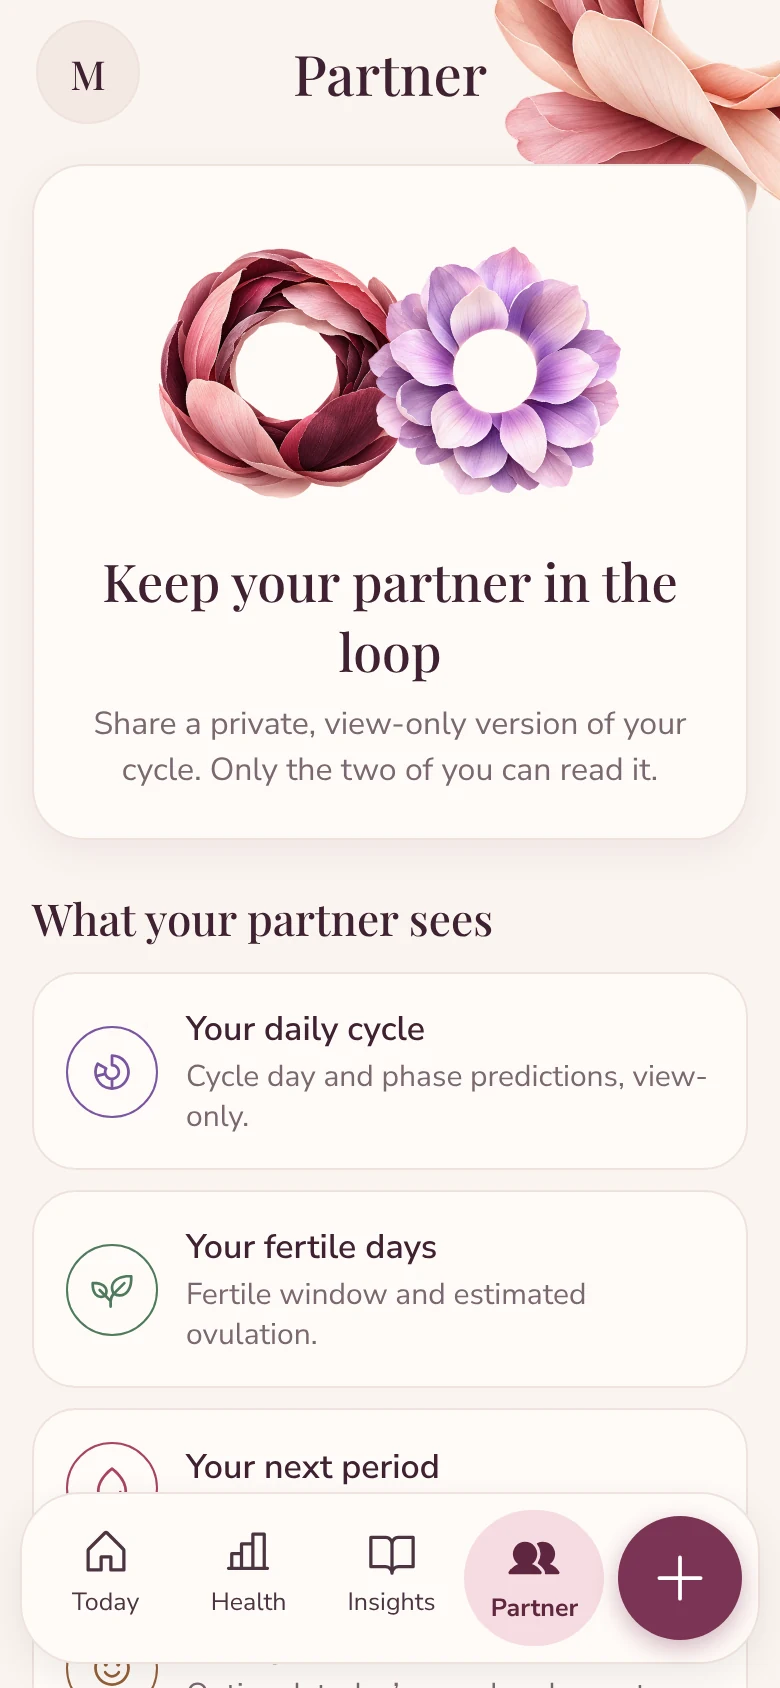
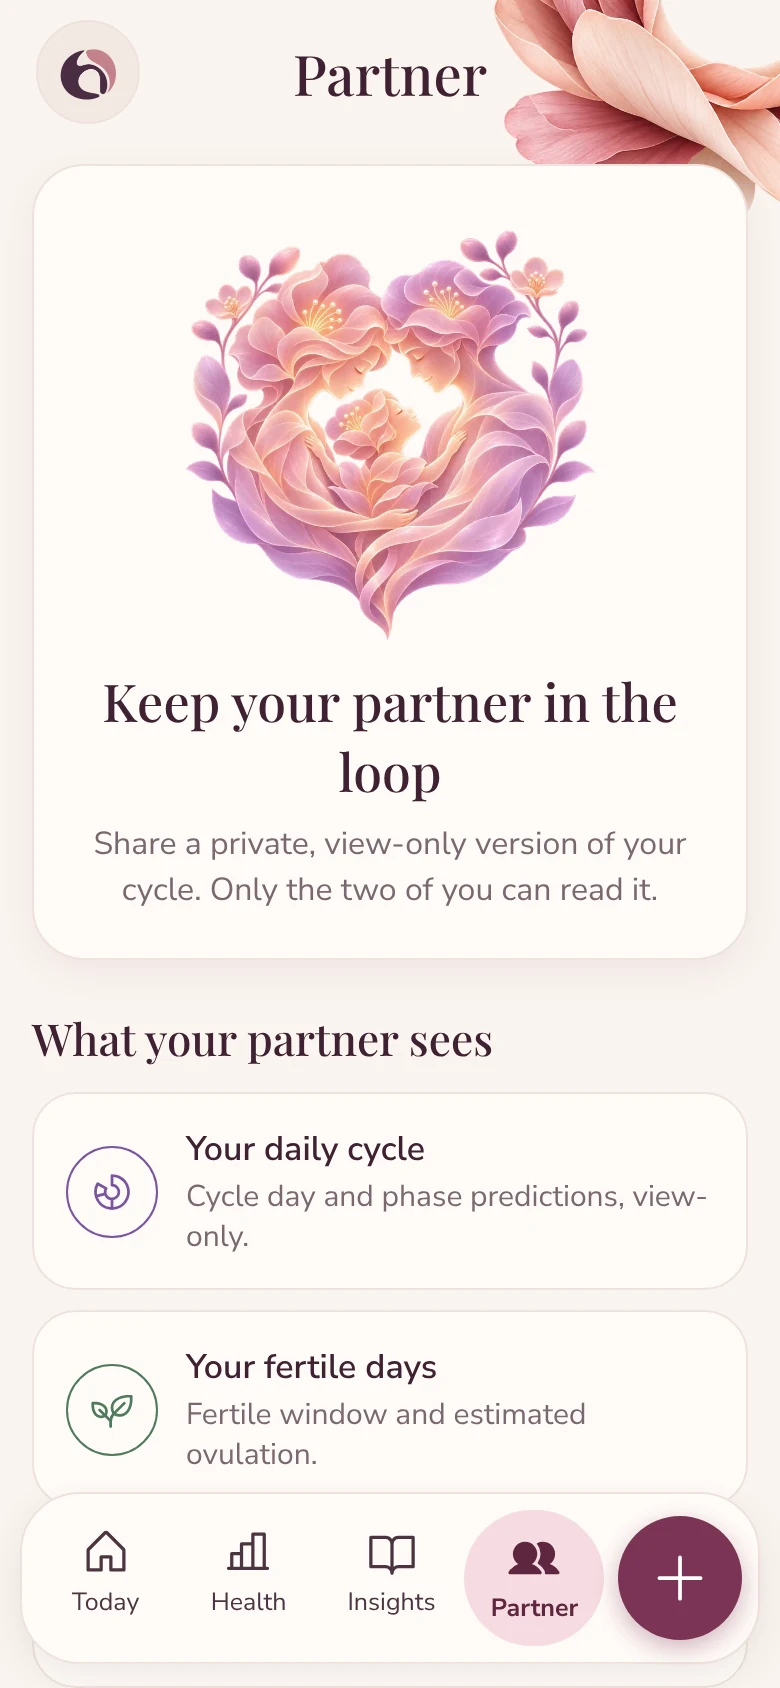
Partner page: new heart-of-petals illustration; switch donations off for now
- Partner page hero now shows the new illustration (two petal figures holding a child inside a
  heart of flowers) instead of the two flower photos, with the same gentle breathing motion and an
  accessible description. Original kept in design/partner/; the app bundles a 720px copy.
- Donations are off: the box is hidden everywhere (one switch, DONATIONS_ENABLED, in
  screens/About.tsx), and the donation lines are removed from the terms, README, CONTRIBUTING,
  FEATURES and .github/FUNDING.yml.

Claude-Session: https://claude.ai/code/session_01MSWr9YJh93DQjGqFjrqjsk

diff --git a/app/src/screens/Partner.tsx b/app/src/screens/Partner.tsx
@@ -12,7 +12,7 @@ import { BloomCircle } from '../bloom';
 import { Icon } from '../icons';
 import { useNav } from '../nav';
 import { selectLogs, selectSettings, useStore } from '../store';
-import { bloomFor, colors, flowers, shadow, themed } from '../theme';
+import { bloomFor, colors, shadow, themed } from '../theme';
 import { Btn, Card, Field, Muted, Row, Sheet } from '../ui';
 import { CalendarView } from './Calendar';
 import { QR } from '../qr';
@@ -21,15 +21,14 @@ import { QRScanner, scanSupported } from '../scan';
 import { TabHeader, centre } from './Today';
 import { CornerBloom } from './Insights';
 
-/** Two blooms leaning together, gently breathing. */
+/** Two figures and a child held together inside a heart of petals, gently breathing. */
 function Together() {
   const v = useLoop(2600);
   return (
-    <View style={{ alignItems: 'center', marginVertical: 6, height: 150, justifyContent: 'center' }}>
-      <Animated.View style={{ flexDirection: 'row', transform: [{ scale: v.interpolate({ inputRange: [0, 1], outputRange: [0.97, 1.03] }) }] }}>
-        <Image source={flowers.menstrual} style={{ width: 130, height: 130, marginRight: -26, transform: [{ rotate: '-12deg' }] }} resizeMode="contain" />
-        <Image source={flowers.ovulation} style={{ width: 130, height: 130, transform: [{ rotate: '14deg' }] }} resizeMode="contain" />
-      </Animated.View>
+    <View style={{ alignItems: 'center', marginVertical: 6 }}>
+      <Animated.Image source={require('../../assets/partner-together.webp')} resizeMode="contain" testID="partner-art"
+        accessible accessibilityRole="image" accessibilityLabel="Illustration: two people made of petals, holding a child between them inside a heart of flowers."
+        style={{ width: 210, height: 210, transform: [{ scale: v.interpolate({ inputRange: [0, 1], outputRange: [0.98, 1.02] }) }] }} />
     </View>
   );
 }

diff --git a/app/src/screens/About.tsx b/app/src/screens/About.tsx
@@ -14,10 +14,13 @@ import { Logo } from './Onboarding';
 const openRepo = () => void Linking.openURL(REPO_URL).catch(() => undefined);
 
 /**
+ * Donations are switched off for now. To turn them back on, set DONATIONS_ENABLED to true
+ * (and restore the donation lines in legal.ts, README.md, CONTRIBUTING.md and .github/FUNDING.yml).
  * Apple does not allow iOS apps to link to outside payment for donations to the developer,
- * so the donation box is shown on Android and the web only.
+ * so even when enabled the box is shown on Android and the web only.
  */
-export const DONATIONS_SHOWN = Platform.OS !== 'ios';
+const DONATIONS_ENABLED = false;
+export const DONATIONS_SHOWN = DONATIONS_ENABLED && Platform.OS !== 'ios';
 
 /** Voluntary donations box (GitHub Sponsors). Optional; unlocks nothing. */
 export function DonateBox({ compact }: { compact?: boolean }) {

diff --git a/app/src/legal.ts b/app/src/legal.ts
@@ -53,7 +53,6 @@ export const TERMS: LegalSection[] = [
     title: 'What Avelune is',
     body: [
       'Avelune is a free, personal open-source project released under the MIT License. It is not a paid product and is not run by a company. The official project never charges for the app, shows ads or sells data. If someone asks you to pay for it, that is not this project.',
-      'You can support the project with a voluntary donation through GitHub Sponsors. Donations are optional, are not payment for the app, and do not unlock any features or support obligations.',
       'You may use, copy, modify and share it under the terms of the MIT License in the project repository.',
     ],
   },

diff --git a/README.md b/README.md
@@ -11,8 +11,7 @@ with an optional **self-hosted, end-to-end encrypted sync server**.
 > Technology today is a necessity for everyone, and understanding your own body should not depend on paying a monthly or yearly
 > subscription. Avelune was created to add real value for people who cannot pay for one, or would rather not.
 >
-> **If you have the ability to contribute to this project and support it for the community, please go ahead.** See [CONTRIBUTING.md](CONTRIBUTING.md),
-> or [donate through GitHub Sponsors](https://github.com/sponsors/omarals95) to help maintain it.
+> **If you have the ability to contribute to this project and support it for the community, please go ahead.** See [CONTRIBUTING.md](CONTRIBUTING.md).
 >
 > Avelune is **not a medical device** and must not be used as contraception or to diagnose anything. By using it you agree to the
 > [terms of use](TERMS.md) and [privacy policy](PRIVACY.md). The app shows the same notice the first time it opens.
@@ -137,16 +136,6 @@ GitHub → **Actions → iOS build → Run workflow** compiles the app on a macO
 
 For TestFlight or the App Store you need an Apple Developer account ($99/year) and a signed build, for example with
 `npx eas build -p ios`. Locally on a Mac (Xcode 16 required): `cd app && npx expo run:ios`.
-
-## Support Avelune
-
-Avelune has no ads, subscriptions or paid features. If it helps you and you are able to, a donation helps cover the costs of keeping
-it going: app store accounts, test devices, hosting, and the time to fix bugs and build new features.
-
-[![Sponsor Avelune](https://img.shields.io/badge/Sponsor-Avelune-ea4aaa?logo=githubsponsors&logoColor=white)](https://github.com/sponsors/omarals95)
-
-Donating is completely optional and unlocks nothing. Every feature stays free for everyone. The same box is in the app under
-**Settings** and **Settings → About Avelune** (Android and web; Apple does not allow donation links in iOS apps).
 
 ## Contributing
 

diff --git a/docs/FEATURES.md b/docs/FEATURES.md
@@ -523,9 +523,3 @@ Cycle reminders pause in pregnancy mode. On the web, reminders are set up from t
 - **Settings → About Avelune:** the same points, ways to support the project, a GitHub link, and the terms and privacy policy.
 - **Source of the text:** `app/src/legal.ts`. `node scripts/legal-docs.mjs` regenerates `TERMS.md` and `PRIVACY.md` from it. The repository also has `LICENSE` (MIT), `CONTRIBUTING.md`, and screenshots in `docs/screenshots/`.
 
-## 14. Donations
-
-- **Donations box:** "Help keep Avelune free" appears on the first-use notice, in Settings and in Settings → About Avelune. It opens GitHub Sponsors (github.com/sponsors/omarals95).
-- **Wording:** donations are voluntary, unlock nothing, and every feature stays free. The terms of use say the same.
-- **Platforms:** shown on Android and the web. Hidden on iPhone because App Store rules don't allow apps to link to outside donation payments to the developer.
-- **Repository:** `.github/FUNDING.yml` adds a Sponsor button to the GitHub page.

diff --git a/TERMS.md b/TERMS.md
@@ -8,8 +8,6 @@ Avelune is a free, personal open-source project. By using it you agree to these 
 
 Avelune is a free, personal open-source project released under the MIT License. It is not a paid product and is not run by a company. The official project never charges for the app, shows ads or sells data. If someone asks you to pay for it, that is not this project.
 
-You can support the project with a voluntary donation through GitHub Sponsors. Donations are optional, are not payment for the app, and do not unlock any features or support obligations.
-
 You may use, copy, modify and share it under the terms of the MIT License in the project repository.
 
 ## Not a medical device

diff --git a/CONTRIBUTING.md b/CONTRIBUTING.md
@@ -13,7 +13,6 @@ paying a monthly or yearly subscription. If you have the ability to contribute a
 - **Translate** the app into your language.
 - **Test** new builds on your phone and share feedback.
 - **Spread the word.** Tell someone who could use a free, private tracker, or star the repository.
-- **Donate.** If you can't contribute time, a [donation through GitHub Sponsors](https://github.com/sponsors/omarals95) helps cover the costs of maintaining the app. It is always optional.
 
 ## Getting started
 
